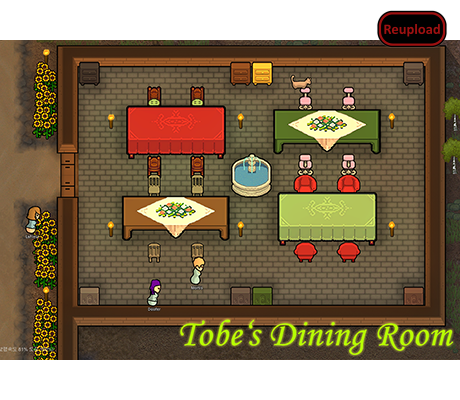
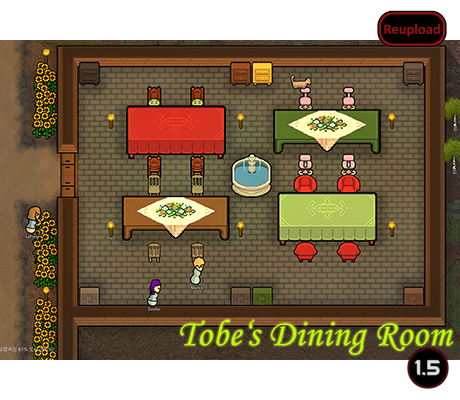
Mod updated for 1.5 and passed autotests

Changed region(s): [[0.8826, 0.87, 0.9739, 0.99]]

diff --git a/README.md b/README.md
@@ -31,12 +31,13 @@ But not using them.
 
 -  See if the the error persists if you just have this mod and its requirements active.
 -  If not, try adding your other mods until it happens again.
--  Post your error-log using https://steamcommunity.com/workshop/filedetails/?id=818773962]HugsLib and command Ctrl+F12
+-  Post your error-log using https://steamcommunity.com/workshop/filedetails/?id=818773962]HugsLib or the standalone https://steamcommunity.com/sharedfiles/filedetails/?id=2873415404]Uploader and command Ctrl+F12
 -  For best support, please use the Discord-channel for error-reporting.
 -  Do not report errors by making a discussion-thread, I get no notification of that.
 -  If you have the solution for a problem, please post it to the GitHub repository.
+-  Use https://github.com/RimSort/RimSort/releases/latest]RimSort to sort your mods
 
 
 
+https://steamcommunity.com/sharedfiles/filedetails/changelog/2188971588]![Image](https://img.shields.io/github/v/release/emipa606/TobesDiningRoom?label=latest%20version&style=plastic&color=9f1111&labelColor=black)
 
-https://steamcommunity.com/sharedfiles/filedetails/changelog/2188971588]Last updated 2022-12-26
